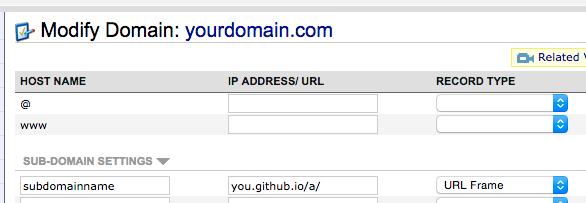
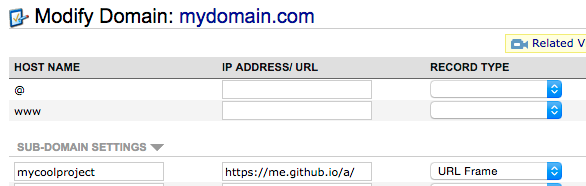
Fix picture and add note.

diff --git a/namecheap-url.md b/namecheap-url.md
@@ -4,14 +4,16 @@
 * Select the relevant domain name
 * click on All Host Records
 * ![All Host Records](namecheapallhost.png)
+* Decide whether you want to use the main domain or a subdomain:
 
 ##Main domain
 namecheap doesn't allow CNAMEs to point at urls that include a / character. In order to make it appear you have a certain root URL, you can do this:
 * set the IP ADDRESS/URL column in the @ row to the target URL
 * set that RECORD TYPE drop down to URL Frame
 * Set the IP ADDRESS/URL column in the WWW row to point to the top level URL (if you don't want a WWW)
-* set taht RECORD TYPE drop down to URL Redirect
+* set that RECORD TYPE drop down to URL Redirect
 ![namecheap screenshot](/namecheapurl.png)
+*note: your project repo would be called `a` in this picture example; I used it so it would all fit in the frame*
 
 ##Subdomain
 To make it look like a subdomain, do this in the SUB-DOMAIN SETTINGS section:
@@ -20,3 +22,4 @@ To make it look like a subdomain, do this in the SUB-DOMAIN SETTINGS section:
 * Put your github project URL in the IP ADDRESS/URL column
 * Set the RECORD TYPE dropdown to URL Frame
 ![subdomain screenshot](/namecheapurlsubdomain.png)
+*note: your project repo would be called `a` in this picture example; I used it so it would all fit in the frame*
